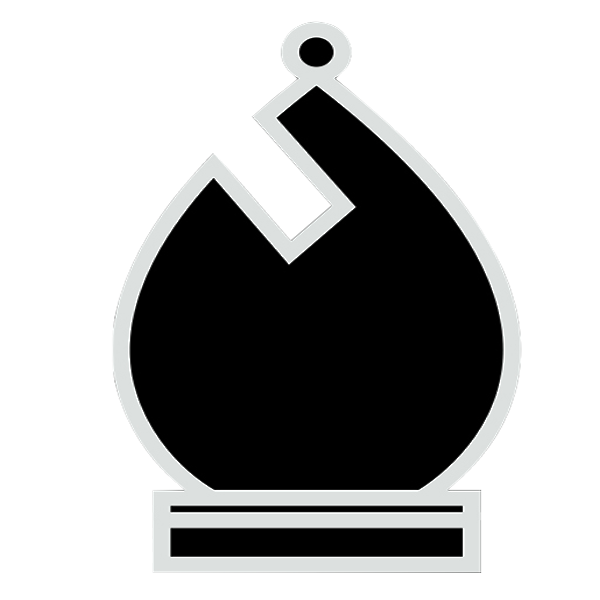
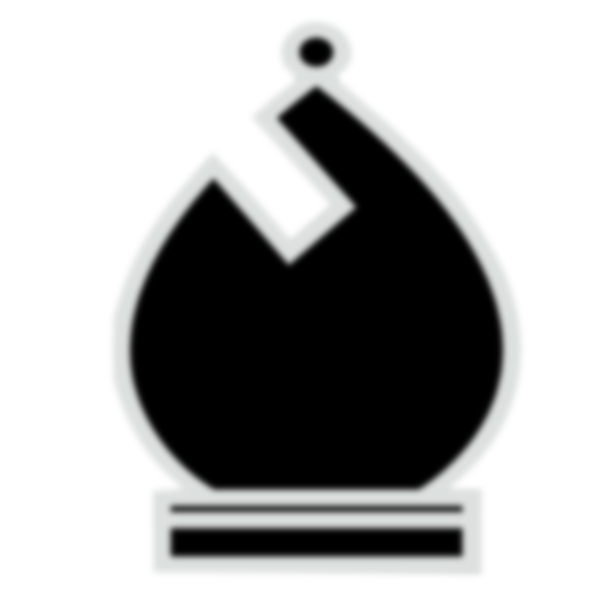
Graphics Update

diff --git a/core/src/com/jtechapps/chessdaddy/TwoPlayerMatch.java b/core/src/com/jtechapps/chessdaddy/TwoPlayerMatch.java
@@ -10,11 +10,17 @@ import com.badlogic.gdx.graphics.Texture;
 import com.badlogic.gdx.graphics.g2d.Sprite;
 import com.badlogic.gdx.graphics.g2d.SpriteBatch;
 import com.badlogic.gdx.math.Vector2;
-
+import com.badlogic.gdx.graphics.Camera;
+import com.badlogic.gdx.graphics.OrthographicCamera;
+import com.badlogic.gdx.utils.viewport.Viewport;
+import com.badlogic.gdx.utils.viewport.FitViewport;
+import com.badlogic.gdx.math.Vector3;
 import java.util.ArrayList;
 
 public class TwoPlayerMatch implements Screen, InputProcessor{
 	private Game game;
+	private Viewport viewport;
+	private Camera camera;
 	private SpriteBatch batch;
 	private Texture img, img2;
 	private int width, height;
@@ -43,20 +49,29 @@ public class TwoPlayerMatch implements Screen, InputProcessor{
 
 	@Override
 	public void show() {
-		width = Gdx.graphics.getWidth();
-		height = Gdx.graphics.getHeight();
+		width = 2000;
+		height = 2000;
+		camera = new OrthographicCamera();
+		viewport = new FitViewport(width, height, camera);
+		viewport.apply();
+		camera.position.set(camera.viewportWidth/2,camera.viewportHeight/2,0);
+
+		//width = Gdx.graphics.getWidth();
+		//height = Gdx.graphics.getHeight();
 		Gdx.input.setInputProcessor(this);
 		blockSize = height/8;
 		batch = new SpriteBatch();
-		img = new Texture("purple.png");//dark
-		img2 = new Texture("cyan.png");//light
+		img = new Texture("white1.png");
+		//board color
+		Color lightColor = Color.LIGHT_GRAY;
+		Color darkColor = Color.DARK_GRAY;
 		//piece textures
 		loadPieceTextures();
 
 		//Add block background
 		for(int r=0; r<board.length; r++) {
 			for(int c=0; c<board[r].length; c++) {
-				BoardCell boardTile = new BoardCell(((c%2==0 && r%2==0) || (c%2==1 && r%2==1)) ? img: img2, r, c);
+				BoardCell boardTile = new BoardCell(img, ((c%2==0 && r%2==0) || (c%2==1 && r%2==1)) ? darkColor: lightColor, r, c);
 				boardTile.setSize(blockSize, blockSize);
 				boardTile.setPosition(blockSize*c, blockSize*r);//FIXED row should ne HEIGHT, COLUMN SHOULD BE X
 				boardTile.setOriginCenter();
@@ -72,8 +87,10 @@ public class TwoPlayerMatch implements Screen, InputProcessor{
 
 	@Override
 	public void render(float delta) {
+		camera.update();
 		Gdx.gl.glClearColor(0, 0, 0, 1);
 		Gdx.gl.glClear(GL20.GL_COLOR_BUFFER_BIT);
+		batch.setProjectionMatrix(camera.combined);
 		batch.begin();
 		//draw board
 		for(int r=0; r<board.length; r++) {
@@ -93,7 +110,8 @@ public class TwoPlayerMatch implements Screen, InputProcessor{
 	@Override
 	public void resize(int width, int height) {
 		// TODO Auto-generated method stub
-		
+		viewport.update(width,height);
+		camera.position.set(camera.viewportWidth/2,camera.viewportHeight/2,0);
 	}
 
 	@Override
@@ -143,6 +161,11 @@ public class TwoPlayerMatch implements Screen, InputProcessor{
 
 	@Override
 	public boolean touchDown(int screenX, int screenY, int pointer, int button) {
+		//Convert screen to camera coordinates
+		Vector3 worldPoint = camera.unproject(new Vector3(screenX, screenY, 0), viewport.getScreenX(), viewport.getScreenY(), viewport.getScreenWidth(), viewport.getScreenHeight());
+		screenX = (int) worldPoint.x;
+		screenY = height-(int) worldPoint.y;
+		//
 		for(int r=0; r<board.length; r++) {
 			for(int c=0; c<board[0].length; c++) {
 				if(board[r][c].getBoundingRectangle().contains(screenX, height-screenY)) {
@@ -270,6 +293,8 @@ public class TwoPlayerMatch implements Screen, InputProcessor{
 						pieceTextures[r][c] = new Texture("blackking.png");
 					}
 				}
+				pieceTextures[r][c].setFilter(Texture.TextureFilter.Linear, Texture.TextureFilter.Linear);
+
 			}
 		}
 	}

diff --git a/core/src/com/jtechapps/chessdaddy/BoardCell.java b/core/src/com/jtechapps/chessdaddy/BoardCell.java
@@ -12,10 +12,13 @@ public class BoardCell extends Sprite {
     private Piece occupiedPiece = null;
     private char row, column;
     private BoardPosition boardPosition;
+    private Color defaultColor;
 
-    public BoardCell(Texture texture, int row, int column) {
+    public BoardCell(Texture texture, Color defaultColor, int row, int column) {
         super(texture);
         boardPosition = new BoardPosition(row, column);
+        this.defaultColor = defaultColor;
+        setColor(defaultColor);
     }
 
     public boolean isOccupied() {
@@ -92,7 +95,7 @@ public class BoardCell extends Sprite {
      */
     public void setActive() {
         if(!disableGuide) {
-            this.setColor(Color.BROWN);
+            this.setColor(Color.GRAY);
         }
     }
 
@@ -101,7 +104,7 @@ public class BoardCell extends Sprite {
      */
     public void setPotential() {
         if(!disableGuide) {
-            this.setColor(Color.YELLOW);
+            this.setColor(Color.TAN);
         }
     }
 
@@ -110,7 +113,7 @@ public class BoardCell extends Sprite {
      */
     public void setNormal() {
         if(!disableGuide) {
-            this.setColor(Color.WHITE);
+            this.setColor(defaultColor);
         }
     }
 }
